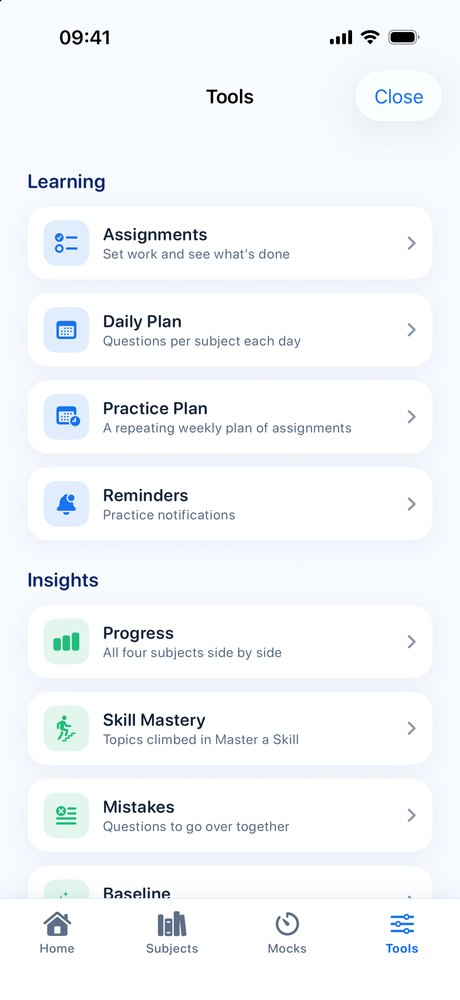
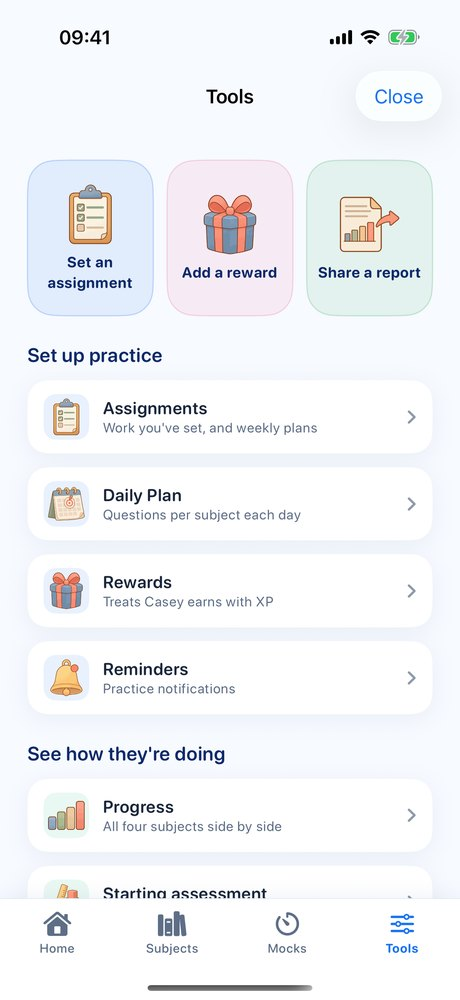
Site for 2.2: free for 24 hours, then Taco's Daily 5 every day
Pricing leads with the free day then the free Daily 5 card (real screenshot),
hero/CTA/sticky bar say five free questions a day, new FAQ on what's free
after the 24 hours; support and terms describe the free plan (terms dated
5 November 2026). Parent guide: Tools shortcuts, three-question assignments
with suggestions, weekly plan, starting assessment at a glance, the new
Rewards flow, with fresh Tools and Rewards screenshots. Sitemap lastmod.

diff --git a/guide/index.html b/guide/index.html
@@ -97,7 +97,7 @@
             <li><b>Target schools.</b> Pick from 250 grammar and selective schools, browsing by region, or skip for now and add them later. Practice is limited to the subjects those schools actually test.</li>
             <li><b>Try it.</b> Your child answers one real question, with Taco's hint if they want it, so they see how the app works before anything else.</li>
             <li><b>Your Parent PIN.</b> Everything parent-facing sits behind a 4-digit PIN: settings, progress, rewards, data. The child side stays simple and safe.</li>
-            <li><b>Your plan.</b> A summary of what your child will practise (change the subjects if you need to) and an optional daily reminder. Then tap <b>Start the free 24 hours</b>: the whole app is open for a day, with no card.</li>
+            <li><b>Your plan.</b> A summary of what your child will practise (change the subjects if you need to) and an optional daily reminder. Then tap <b>Start the free 24 hours</b>: the whole app is open for a day, with no card. After that, five free questions a day carry on (Taco's Daily 5) for as long as you like.</li>
           </ol>
           <p>From then on, opening the app lands on a friendly profile picker: your child taps their name and goes straight to practice; you tap <b>Parent Mode</b> and enter your PIN. You can add more children in Parent Mode → Tools → Manage Child.</p>
           <p><b>One thing to do on day one:</b> set up PIN recovery (Tools → Support → PIN recovery) and email yourself the one-time code. Forget the PIN later? After five wrong attempts the app offers a reset that accepts that code — <a href="/support/#pin">how it works</a>.</p>
@@ -293,17 +293,17 @@
         <div class="guide-copy">
           <div class="kicker">Full control</div>
           <h2>The toolkit</h2>
-          <p>The Tools tab is mission control, grouped so you can find things:</p>
+          <p>The Tools tab opens with three big shortcuts: <b>Set an assignment</b>, <b>Add a reward</b> and <b>Share a report</b>. Below them, everything is grouped by what you're trying to do:</p>
           <ul class="tool-list">
-            <li><b>Assignments</b> — set specific work (topic practice, retry mistakes, even a scheduled mock) with your own message, difficulty, time limits, recurrence and help policy, and see what's done.</li>
+            <li><b>Assignments</b> — Taco suggests your child's weakest topics as ready-made assignments you can set in one tap. Or tap <b>Set an assignment</b> and answer three questions: which subject, what to practise (the weakest topic is already picked) and when it's due. Difficulty, help level, repeats and reminders sit under <b>More options</b>. Assignments appear near the top of your child's Home with a <b>Start</b> button.</li>
+            <li><b>Weekly Practice Plan</b> — a repeating routine in three questions: which subjects, how often, how many. While a plan is running it sits right under Assignments, and you can stop it there.</li>
             <li><b>Daily Plan</b> — how many questions per subject each day.</li>
-            <li><b>Practice Plan</b> — a repeating weekly plan of assignments.</li>
+            <li><b>Rewards</b> — real-world treats tied to XP (below).</li>
             <li><b>Reminders</b> — practice notifications on your schedule.</li>
             <li><b>Progress</b> — all four subjects side by side.</li>
-            <li><b>Skill Mastery</b> — the topics climbed in Master a Skill.</li>
+            <li><b>Starting assessment</b> — where your child started: each subject's score, the topics to work on and the secure ones, with a one-tap <b>Set practice</b> for the weakest.</li>
             <li><b>Mistakes</b> — every wrong answer, to go over together.</li>
-            <li><b>Baseline</b> — the starting assessments.</li>
-            <li><b>Rewards</b> — real-world treats tied to XP (below).</li>
+            <li><b>Skill Mastery</b> — the topics climbed in Master a Skill.</li>
             <li><b>School goals</b> — change target schools; subjects re-sync automatically.</li>
             <li><b>Manage Child</b> — profiles and Taco's help level.</li>
             <li><b>Export Report</b> — a PDF progress report to share.</li>
@@ -313,8 +313,8 @@
           <p>At the bottom, a <b>Weekly summary</b> switch sends you a Sunday evening nudge to look at the week.</p>
         </div>
         <aside>
-          <div class="shot"><img src="/assets/screens/app-parent-tools-sm.jpg" alt="Parent Mode Tools: a Learning group with Assignments, Daily Plan, Practice Plan and Reminders, then Insights with Progress, Skill Mastery, Mistakes and Baseline" width="460" height="1000" loading="lazy"></div>
-          <div class="shot-caption">Learning, insights, family, and data.</div>
+          <div class="shot"><img src="/assets/screens/app-parent-tools-sm.jpg" alt="Parent Mode Tools: three shortcuts, Set an assignment, Add a reward and Share a report, then Set up practice with Assignments, Daily Plan, Rewards and Reminders" width="460" height="1000" loading="lazy"></div>
+          <div class="shot-caption">The three things parents do most, first.</div>
         </aside>
       </div>
     </section>
@@ -322,19 +322,20 @@
     <section id="rewards">
       <div class="guide-section flip">
         <aside>
-          <div class="shot"><img src="/assets/screens/app-rewards-sm.jpg" alt="Rewards: 320 XP available of 2,340 earned, and a monthly goal reward of a new bike at 1,020 of 1,500 XP that restarts each month with no pressure if it is not reached" width="460" height="1000" loading="lazy"></div>
-          <div class="shot-caption">A goal reward, filling up.</div>
+          <div class="shot"><img src="/assets/screens/app-rewards-sm.jpg" alt="Rewards: 320 XP available, Casey's rewards with a trip to the cinema at 320 of 640 XP, pizza night, and a monthly new bike goal, with an Add another reward button" width="460" height="1000" loading="lazy"></div>
+          <div class="shot-caption">Every reward shows at the top of their Home.</div>
         </aside>
         <div class="guide-copy">
           <div class="kicker">Motivation that means something</div>
           <h2>Rewards, step by step</h2>
           <p>XP and streaks keep practice fun inside the app. Rewards connect that effort to the real world — <b>you decide the treat, you decide the price</b>:</p>
           <ol class="howto">
-            <li>Open <b>Tools → Rewards</b> and tap <b>+</b>.</li>
-            <li>Name the reward — a cinema trip, a new book, a day out, a bike. Anything your family cares about.</li>
-            <li>Pick the XP it costs (presets from 100 to 2,000, or type your own) and tap <b>Add reward</b>.</li>
+            <li>Open <b>Tools</b> and tap <b>Add a reward</b>.</li>
+            <li>Pick a picture and name the reward — a cinema trip, a new book, a day out, a bike. Anything your family cares about.</li>
+            <li>Pick the XP (presets from 250 to 5,000, or type your own).</li>
+            <li>Choose how it's earned: <b>Save up XP</b> over time, or earn it <b>in a week</b> or <b>in a month</b>. Tap <b>Add reward</b>.</li>
           </ol>
-          <p>Your child sees a progress bar filling towards something real. You can also switch on <b>Goal rewards</b> — a treat for earning an XP target within a week or a month. There's deliberately no failure state: an unmet goal simply restarts, so rewards stay motivating and never punishing.</p>
+          <p>The reward appears at the top of your child's Home, with a progress bar filling towards something real, and says "You've earned it! Show your grown-up" when they get there. Week and month rewards have deliberately no failure state: an unmet goal simply restarts, so rewards stay motivating and never punishing.</p>
         </div>
       </div>
     </section>
@@ -437,9 +438,9 @@
     </section>
 
   </div>
-<a class="sticky-cta" href="https://apps.apple.com/app/apple-store/id6782715811?pt=128520847&amp;ct=web&amp;mt=8" aria-label="Download on the App Store: free for 24 hours, no card">
+<a class="sticky-cta" href="https://apps.apple.com/app/apple-store/id6782715811?pt=128520847&amp;ct=web&amp;mt=8" aria-label="Download on the App Store: free for 24 hours, then five free questions a day">
   <img class="sticky-cta-taco" src="/assets/taco-wave-sm.webp" alt="" aria-hidden="true" width="46" height="61">
-  <span class="sticky-cta-text"><b>Free for 24 hours</b><small>Every subject · no card needed</small></span>
+  <span class="sticky-cta-text"><b>Free for 24 hours</b><small>Then 5 free a day · no card</small></span>
   <span class="sticky-cta-go">Download</span>
 </a>
 

diff --git a/index.html b/index.html
@@ -10,7 +10,7 @@
 <meta name="theme-color" content="#F7FAFF">
 <link rel="canonical" href="https://11testcoach.co.uk/">
 <meta property="og:title" content="11+ Test Coach — taught first, then practised">
-<meta property="og:description" content="85 short lessons and 12,000+ exam-style questions across all four 11+ subjects, with a hamster coach called Taco. Free for 24 hours, no card. No ads, no account, no tracking.">
+<meta property="og:description" content="85 short lessons and 12,000+ exam-style questions across all four 11+ subjects, with a hamster coach called Taco. Free for 24 hours, then five free questions a day. No ads, no account, no tracking.">
 <meta property="og:image" content="https://11testcoach.co.uk/assets/og-card.png">
 <meta property="og:image:width" content="1200">
 <meta property="og:image:height" content="630">
@@ -73,7 +73,7 @@
         <h1>They learn it first. <span class="accent">Then they practise until it sticks.</span></h1>
         <p class="hm-lead">Short picture lessons teach each 11+ topic, then exam-style questions with Taco's hints build it up. All four subjects, about ten minutes a day, and you see exactly how they're doing.</p>
         <div class="hero-ctas hm-ctas">
-          <a class="hm-get" href="https://apps.apple.com/app/apple-store/id6782715811?pt=128520847&amp;ct=web&amp;mt=8">Download — free for 24 hours, no card</a>
+          <a class="hm-get" href="https://apps.apple.com/app/apple-store/id6782715811?pt=128520847&amp;ct=web&amp;mt=8">Download free: 24 hours of everything, then 5 a day</a>
           <a class="store-badge hm-badge" href="https://apps.apple.com/app/apple-store/id6782715811?pt=128520847&amp;ct=web&amp;mt=8"><img src="/assets/app-store-badge.svg" alt="Download on the App Store" width="132" height="44"></a>
         </div>
         <p class="hm-small"><span class="nw">iPhone &amp; iPad</span> · <span class="nw"><span class="hm-stars" aria-hidden="true">★★★★★</span> 5.0 on the App&nbsp;Store</span> · <span class="nw">No ads, no account</span></p>
@@ -126,7 +126,7 @@
 
     <section class="mid-cta">
       <div class="mid-cta-inner hm-mid">
-        <p><b>Try the whole app tonight.</b> Setup takes a few minutes, then everything is open for 24 hours. No card, nothing to cancel.</p>
+        <p><b>Try the whole app tonight.</b> Everything is open for 24 hours, then Taco's Daily 5 stays free: five questions a day. No card, nothing to cancel.</p>
         <a class="store-badge" href="https://apps.apple.com/app/apple-store/id6782715811?pt=128520847&amp;ct=web&amp;mt=8"><img src="/assets/app-store-badge.svg" alt="Download on the App Store" width="156" height="52"></a>
       </div>
     </section>
@@ -178,7 +178,9 @@
             <li><b>How they're doing at a glance</b>, across all four subjects</li>
             <li><b>Strongest and weakest areas</b>, with practice set in one tap</li>
             <li><b>Which lessons they've finished</b>, where they needed a hand and how the recap checks went</li>
-            <li><b>Mock results, assignments, rewards</b> and printable PDF reports</li>
+            <li><b>Assignments in three taps</b>, or one from Taco's suggestions for their weakest topics. They appear on your child's Home with a Start button</li>
+            <li><b>Rewards you set</b> sit at the top of their Home, filling up as they earn XP</li>
+            <li><b>Mock results, weekly plans</b> and printable PDF reports</li>
           </ul>
           <p><a class="hm-link" href="/guide/">Read the parent guide →</a></p>
         </div>
@@ -237,7 +239,7 @@
     <!-- Pricing: the free day first, then three plans in plain words. -->
     <section id="pricing" class="hm-pricing">
       <p class="kicker">Pricing</p>
-      <h2 class="section-title">Try it all free for a day. Then choose.</h2>
+      <h2 class="section-title">Free for a day. Then free every day.</h2>
 
       <div class="hm-free">
         <img src="/assets/taco-wave-sm.webp" alt="" aria-hidden="true" width="110" height="146" loading="lazy">
@@ -251,7 +253,16 @@
         </div>
       </div>
 
-      <p class="hm-then">Then, to keep going, pick a plan. Every plan has all four subjects, all 85 lessons, 12,000+ questions, mock tests and Parent Mode.</p>
+      <div class="hm-free hm-free-daily">
+        <img class="hm-free-shot" src="/assets/screens/app-daily-five-sm.jpg" alt="The free plan's Home: Taco's Daily 5, Maths: Fractions, five quick questions today, a new subject every day, with a Start my 5 button" width="460" height="1000" loading="lazy">
+        <div class="hm-free-copy">
+          <p class="hm-free-tag">Then, free every day</p>
+          <h3>Taco's Daily 5</h3>
+          <p>After the 24 hours, nothing locks your child out. Every day there are <b>five free questions</b>, one subject at a time, aimed at their weakest topic, with Taco's hints, XP, streaks and rewards still working. Parent Mode stays open too: their focus areas, mistakes and starting-assessment results, so you can see where they need help before you pay for anything.</p>
+        </div>
+      </div>
+
+      <p class="hm-then">Want everything? Pick a plan. Every plan has all four subjects, all 85 lessons, 12,000+ questions and unlimited practice, mock tests, Master a Skill, assignments, weekly plans and PDF reports.</p>
 
       <div class="hm-plans">
         <div class="hm-plan">
@@ -317,7 +328,11 @@
       <div class="faq">
         <details>
           <summary>How does the free 24 hours work?</summary>
-          <p>Download the app and go through the short setup: your child's name and school year, their target schools if you know them, one real question to try with Taco's hint, and a Parent PIN. Then tap <b>Start the free 24 hours</b>. The whole app opens for a day — every subject, every lesson, mock tests and Parent Mode — with no card and nothing to cancel. After that you choose a plan to carry on. The free day is once per device.</p>
+          <p>Download the app and go through the short setup: your child's name and school year, their target schools if you know them, one real question to try with Taco's hint, and a Parent PIN. Then tap <b>Start the free 24 hours</b>. The whole app opens for a day — every subject, every lesson, mock tests and Parent Mode — with no card and nothing to cancel. The free day is once per device.</p>
+        </details>
+        <details>
+          <summary>What's free after the 24 hours?</summary>
+          <p><b>Taco's Daily 5</b>: five questions every day, one subject at a time, aimed at your child's weakest topic, with hints, XP, streaks and rewards. In Parent Mode you keep the overview, focus areas, mistakes, starting assessments, rewards and reminders. A plan adds unlimited practice, all 85 lessons, mock tests, Master a Skill, assignments, weekly plans and PDF reports. There's no time limit on the free plan.</p>
         </details>
         <details>
           <summary>How much does it cost after that?</summary>
@@ -368,15 +383,15 @@
       <div class="cta hm-cta">
         <img src="/assets/taco-wave-sm.webp" alt="Taco the hamster waving" width="120" height="159" loading="lazy">
         <h2>Taco is ready when you are.</h2>
-        <p>Download it tonight, do the short setup together, and your child can be trying their first question with Taco in a few minutes. Free for 24 hours, no card.</p>
+        <p>Download it tonight, do the short setup together, and your child can be trying their first question with Taco in a few minutes. Free for 24 hours, then five free questions every day. No card.</p>
         <a class="store-badge" href="https://apps.apple.com/app/apple-store/id6782715811?pt=128520847&amp;ct=web&amp;mt=8"><img src="/assets/app-store-badge.svg" alt="Download on the App Store" width="156" height="52"></a>
       </div>
     </section>
 
   </div>
-<a class="sticky-cta" href="https://apps.apple.com/app/apple-store/id6782715811?pt=128520847&amp;ct=web&amp;mt=8" aria-label="Download on the App Store: free for 24 hours, no card">
+<a class="sticky-cta" href="https://apps.apple.com/app/apple-store/id6782715811?pt=128520847&amp;ct=web&amp;mt=8" aria-label="Download on the App Store: free for 24 hours, then five free questions a day">
   <img class="sticky-cta-taco" src="/assets/taco-wave-sm.webp" alt="" aria-hidden="true" width="46" height="61">
-  <span class="sticky-cta-text"><b>Free for 24 hours</b><small>Every subject · no card needed</small></span>
+  <span class="sticky-cta-text"><b>Free for 24 hours</b><small>Then 5 free a day · no card</small></span>
   <span class="sticky-cta-go">Download</span>
 </a>
 

diff --git a/terms/index.html b/terms/index.html
@@ -55,7 +55,7 @@
 
 <main class="page">
   <h1>Terms of Use</h1>
-  <p class="updated">Last updated: 24 October 2026</p>
+  <p class="updated">Last updated: 5 November 2026</p>
 
   <p>11+ Test Coach provides educational practice content for children preparing for UK 11+ entrance assessments. By using the app you agree to these terms.</p>
 
@@ -75,7 +75,7 @@
     <li><strong>Family Pass</strong> — £149.99 as a single payment, giving every child profile in the household 12 months of full access, on the same non-renewing terms. Family plans are enabled for Apple <strong>Family Sharing</strong>, so the purchase unlocks the app for members of your Apple family group on their own devices; if sharing is later turned off or you leave the family group, access on those devices ends.</li>
     <li><strong>Monthly</strong> — £16.99 per month for one child profile, or £24.99 per month for every child in the household. These renew automatically until cancelled.</li>
   </ul>
-  <p>Each device can also have one <strong>free day</strong>: after setup, every subject and feature is open for 24 hours at no charge, with no payment details and nothing to cancel. When the 24 hours end, a pass or subscription is needed to keep practising. Everything your child did during the free day stays saved on the device. The free day is offered once per device and is separate from the 7-day free trial on the monthly plans.</p>
+  <p>Each device can also have one <strong>free day</strong>: after setup, every subject and feature is open for 24 hours at no charge, with no payment details and nothing to cancel. When the 24 hours end, the app carries on as a <strong>free plan</strong>: five practice questions a day ("Taco's Daily 5") and Parent Mode's overview, focus areas, mistakes, starting assessments and rewards. A pass or subscription unlocks everything else, including unlimited practice, lessons, mock tests, assignments and reports. We may change what the free plan includes in a future update. Everything your child did during the free day stays saved on the device. The free day is offered once per device and is separate from the 7-day free trial on the monthly plans.</p>
   <p>The <strong>7-day free trial</strong> applies to the monthly plans. Unless you cancel at least 24 hours before the trial ends, the monthly subscription starts automatically and payment is charged to your Apple&nbsp;ID account; it then renews at the end of each period unless auto-renew is turned off at least 24 hours beforehand. You can manage or cancel a monthly subscription at any time in your device's Settings → Apple&nbsp;ID → Subscriptions, and cancelling keeps access until the end of the current paid period.</p>
   <p>Refunds are handled by Apple via <a href="https://reportaproblem.apple.com" rel="noopener">reportaproblem.apple.com</a>. Prices are shown in the App&nbsp;Store in your local currency at the time of purchase and may change for future purchases or billing periods with notice via the App&nbsp;Store; a change never affects a pass you have already bought. Your child's data stays on your device regardless of purchase status.</p>
 
@@ -84,9 +84,9 @@
 
   <h2>Contact</h2>
   <p>Questions about these terms? Email <a href="mailto:help@11testcoach.co.uk">help@11testcoach.co.uk</a>.</p>
-<a class="sticky-cta" href="https://apps.apple.com/app/apple-store/id6782715811?pt=128520847&amp;ct=web&amp;mt=8" aria-label="Download on the App Store: free for 24 hours, no card">
+<a class="sticky-cta" href="https://apps.apple.com/app/apple-store/id6782715811?pt=128520847&amp;ct=web&amp;mt=8" aria-label="Download on the App Store: free for 24 hours, then five free questions a day">
   <img class="sticky-cta-taco" src="/assets/taco-wave-sm.webp" alt="" aria-hidden="true" width="46" height="61">
-  <span class="sticky-cta-text"><b>Free for 24 hours</b><small>Every subject · no card needed</small></span>
+  <span class="sticky-cta-text"><b>Free for 24 hours</b><small>Then 5 free a day · no card</small></span>
   <span class="sticky-cta-go">Download</span>
 </a>
 

diff --git a/support/index.html b/support/index.html
@@ -107,7 +107,7 @@
     </details>
     <details>
       <summary>How do the free 24 hours, trials and refunds work?</summary>
-      <p>After setup, tapping <strong>Start the free 24 hours</strong> opens the whole app for a day, once per device, with no card and nothing to cancel. After that you choose a plan: the Exam Year Pass (£99.99, 12 months, doesn't auto-renew), Monthly (£16.99 a month, with a 7-day free trial) or Family (£149.99 for 12 months, or £24.99 a month with a 7-day free trial). Billing is handled entirely by the App&nbsp;Store: manage or cancel in Settings → your Apple&nbsp;ID → Subscriptions, and request refunds at <a href="https://reportaproblem.apple.com" rel="noopener">reportaproblem.apple.com</a>. Details are in our <a href="/terms/">terms</a>, and prices on the <a href="/#pricing">pricing section</a>.</p>
+      <p>After setup, tapping <strong>Start the free 24 hours</strong> opens the whole app for a day, once per device, with no card and nothing to cancel. After that, <strong>Taco's Daily 5</strong> stays free: five questions a day, with Parent Mode's overview, focus areas and mistakes. For everything else, choose a plan: the Exam Year Pass (£99.99, 12 months, doesn't auto-renew), Monthly (£16.99 a month, with a 7-day free trial) or Family (£149.99 for 12 months, or £24.99 a month with a 7-day free trial). Billing is handled entirely by the App&nbsp;Store: manage or cancel in Settings → your Apple&nbsp;ID → Subscriptions, and request refunds at <a href="https://reportaproblem.apple.com" rel="noopener">reportaproblem.apple.com</a>. Details are in our <a href="/terms/">terms</a>, and prices on the <a href="/#pricing">pricing section</a>.</p>
     </details>
     <details>
       <summary>How do I move my data to a new device?</summary>
@@ -153,9 +153,9 @@
   </div>
 
   <p style="margin-top:28px">Looking for how a feature works? The <a href="/guide/">parent guide</a> and <a href="/kids/">kids' guide</a> walk through every screen with real screenshots.</p>
-<a class="sticky-cta" href="https://apps.apple.com/app/apple-store/id6782715811?pt=128520847&amp;ct=web&amp;mt=8" aria-label="Download on the App Store: free for 24 hours, no card">
+<a class="sticky-cta" href="https://apps.apple.com/app/apple-store/id6782715811?pt=128520847&amp;ct=web&amp;mt=8" aria-label="Download on the App Store: free for 24 hours, then five free questions a day">
   <img class="sticky-cta-taco" src="/assets/taco-wave-sm.webp" alt="" aria-hidden="true" width="46" height="61">
-  <span class="sticky-cta-text"><b>Free for 24 hours</b><small>Every subject · no card needed</small></span>
+  <span class="sticky-cta-text"><b>Free for 24 hours</b><small>Then 5 free a day · no card</small></span>
   <span class="sticky-cta-go">Download</span>
 </a>
 

diff --git a/subjects/index.html b/subjects/index.html
@@ -147,15 +147,15 @@
 
     <section class="mid-cta">
       <div class="mid-cta-inner">
-        <p><b>Try the whole app tonight.</b> Setup takes a few minutes, then everything is open for 24 hours. No card, nothing to cancel.</p>
+        <p><b>Try the whole app tonight.</b> Everything is open for 24 hours, then Taco's Daily 5 stays free: five questions a day. No card, nothing to cancel.</p>
         <a class="store-badge" href="https://apps.apple.com/app/apple-store/id6782715811?pt=128520847&amp;ct=web&amp;mt=8"><img src="/assets/app-store-badge.svg" alt="Download on the App Store"></a>
       </div>
     </section>
 
   </div>
-<a class="sticky-cta" href="https://apps.apple.com/app/apple-store/id6782715811?pt=128520847&amp;ct=web&amp;mt=8" aria-label="Download on the App Store: free for 24 hours, no card">
+<a class="sticky-cta" href="https://apps.apple.com/app/apple-store/id6782715811?pt=128520847&amp;ct=web&amp;mt=8" aria-label="Download on the App Store: free for 24 hours, then five free questions a day">
   <img class="sticky-cta-taco" src="/assets/taco-wave-sm.webp" alt="" aria-hidden="true" width="46" height="61">
-  <span class="sticky-cta-text"><b>Free for 24 hours</b><small>Every subject · no card needed</small></span>
+  <span class="sticky-cta-text"><b>Free for 24 hours</b><small>Then 5 free a day · no card</small></span>
   <span class="sticky-cta-go">Download</span>
 </a>
 

diff --git a/taco/index.html b/taco/index.html
@@ -110,15 +110,15 @@
 
     <section class="mid-cta">
       <div class="mid-cta-inner">
-        <p><b>Try the whole app tonight.</b> Setup takes a few minutes, then everything is open for 24 hours. No card, nothing to cancel.</p>
+        <p><b>Try the whole app tonight.</b> Everything is open for 24 hours, then Taco's Daily 5 stays free: five questions a day. No card, nothing to cancel.</p>
         <a class="store-badge" href="https://apps.apple.com/app/apple-store/id6782715811?pt=128520847&amp;ct=web&amp;mt=8"><img src="/assets/app-store-badge.svg" alt="Download on the App Store"></a>
       </div>
     </section>
 
   </div>
-<a class="sticky-cta" href="https://apps.apple.com/app/apple-store/id6782715811?pt=128520847&amp;ct=web&amp;mt=8" aria-label="Download on the App Store: free for 24 hours, no card">
+<a class="sticky-cta" href="https://apps.apple.com/app/apple-store/id6782715811?pt=128520847&amp;ct=web&amp;mt=8" aria-label="Download on the App Store: free for 24 hours, then five free questions a day">
   <img class="sticky-cta-taco" src="/assets/taco-wave-sm.webp" alt="" aria-hidden="true" width="46" height="61">
-  <span class="sticky-cta-text"><b>Free for 24 hours</b><small>Every subject · no card needed</small></span>
+  <span class="sticky-cta-text"><b>Free for 24 hours</b><small>Then 5 free a day · no card</small></span>
   <span class="sticky-cta-go">Download</span>
 </a>
 

diff --git a/style.css b/style.css
@@ -1295,6 +1295,11 @@ footer {
 .hm-free-copy p { color: var(--text); }
 .hm-free-copy b { color: var(--navy); }
 
+/* The free plan after the day: a real Daily 5 screenshot in place of Taco. */
+.hm-free-daily { grid-template-columns: 120px 1fr; background: #EEF5FF; border-color: #A9C8F5; margin-top: 16px; }
+.hm-free-daily .hm-free-tag { background: var(--royal); color: #fff; }
+.hm-free > img.hm-free-shot { width: 120px; border-radius: 16px; border: 4px solid #0E1A33; box-shadow: var(--shadow); }
+
 .hm-then { margin: 34px 0 16px; color: var(--text-2); font-weight: 600; max-width: 44rem; }
 
 .hm-plans { display: grid; grid-template-columns: repeat(3, 1fr); gap: 16px; }
@@ -1362,6 +1367,8 @@ footer {
   .hm-split-flip .hm-split-art { order: 2; }
   .hm-free { grid-template-columns: 90px 1fr; }
   .hm-free > img { width: 90px; }
+  .hm-free-daily { grid-template-columns: 100px 1fr; }
+  .hm-free > img.hm-free-shot { width: 100px; }
   .hm-free-cta { grid-column: 1 / -1; }
   .hm-plans { grid-template-columns: 1fr; }
 }

diff --git a/privacy/index.html b/privacy/index.html
@@ -107,9 +107,9 @@
 
   <h2>Contact</h2>
   <p>Questions about privacy? Email <a href="mailto:help@11testcoach.co.uk">help@11testcoach.co.uk</a>.</p>
-<a class="sticky-cta" href="https://apps.apple.com/app/apple-store/id6782715811?pt=128520847&amp;ct=web&amp;mt=8" aria-label="Download on the App Store: free for 24 hours, no card">
+<a class="sticky-cta" href="https://apps.apple.com/app/apple-store/id6782715811?pt=128520847&amp;ct=web&amp;mt=8" aria-label="Download on the App Store: free for 24 hours, then five free questions a day">
   <img class="sticky-cta-taco" src="/assets/taco-wave-sm.webp" alt="" aria-hidden="true" width="46" height="61">
-  <span class="sticky-cta-text"><b>Free for 24 hours</b><small>Every subject · no card needed</small></span>
+  <span class="sticky-cta-text"><b>Free for 24 hours</b><small>Then 5 free a day · no card</small></span>
   <span class="sticky-cta-go">Download</span>
 </a>
 

diff --git a/kids/index.html b/kids/index.html
@@ -245,9 +245,9 @@
     </section>
 
   </div>
-<a class="sticky-cta" href="https://apps.apple.com/app/apple-store/id6782715811?pt=128520847&amp;ct=web&amp;mt=8" aria-label="Download on the App Store: free for 24 hours, no card">
+<a class="sticky-cta" href="https://apps.apple.com/app/apple-store/id6782715811?pt=128520847&amp;ct=web&amp;mt=8" aria-label="Download on the App Store: free for 24 hours, then five free questions a day">
   <img class="sticky-cta-taco" src="/assets/taco-wave-sm.webp" alt="" aria-hidden="true" width="46" height="61">
-  <span class="sticky-cta-text"><b>Free for 24 hours</b><small>Every subject · no card needed</small></span>
+  <span class="sticky-cta-text"><b>Free for 24 hours</b><small>Then 5 free a day · no card</small></span>
   <span class="sticky-cta-go">Download</span>
 </a>
 
